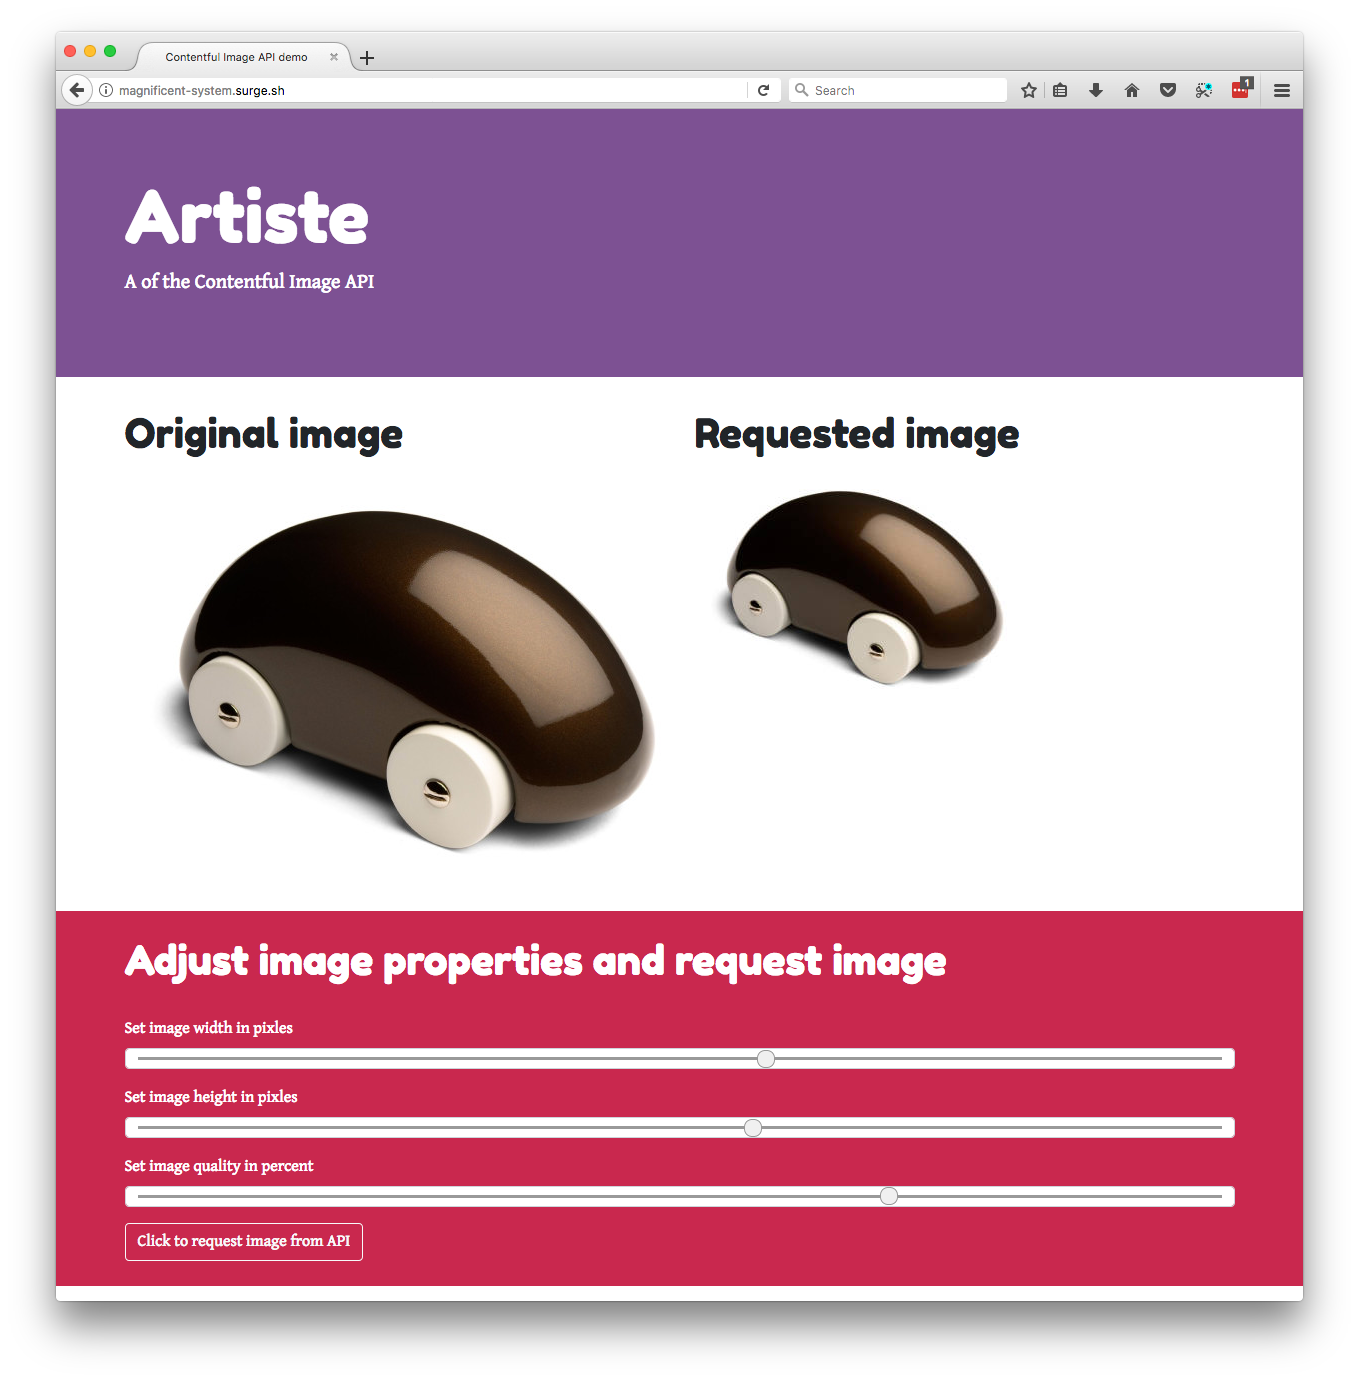
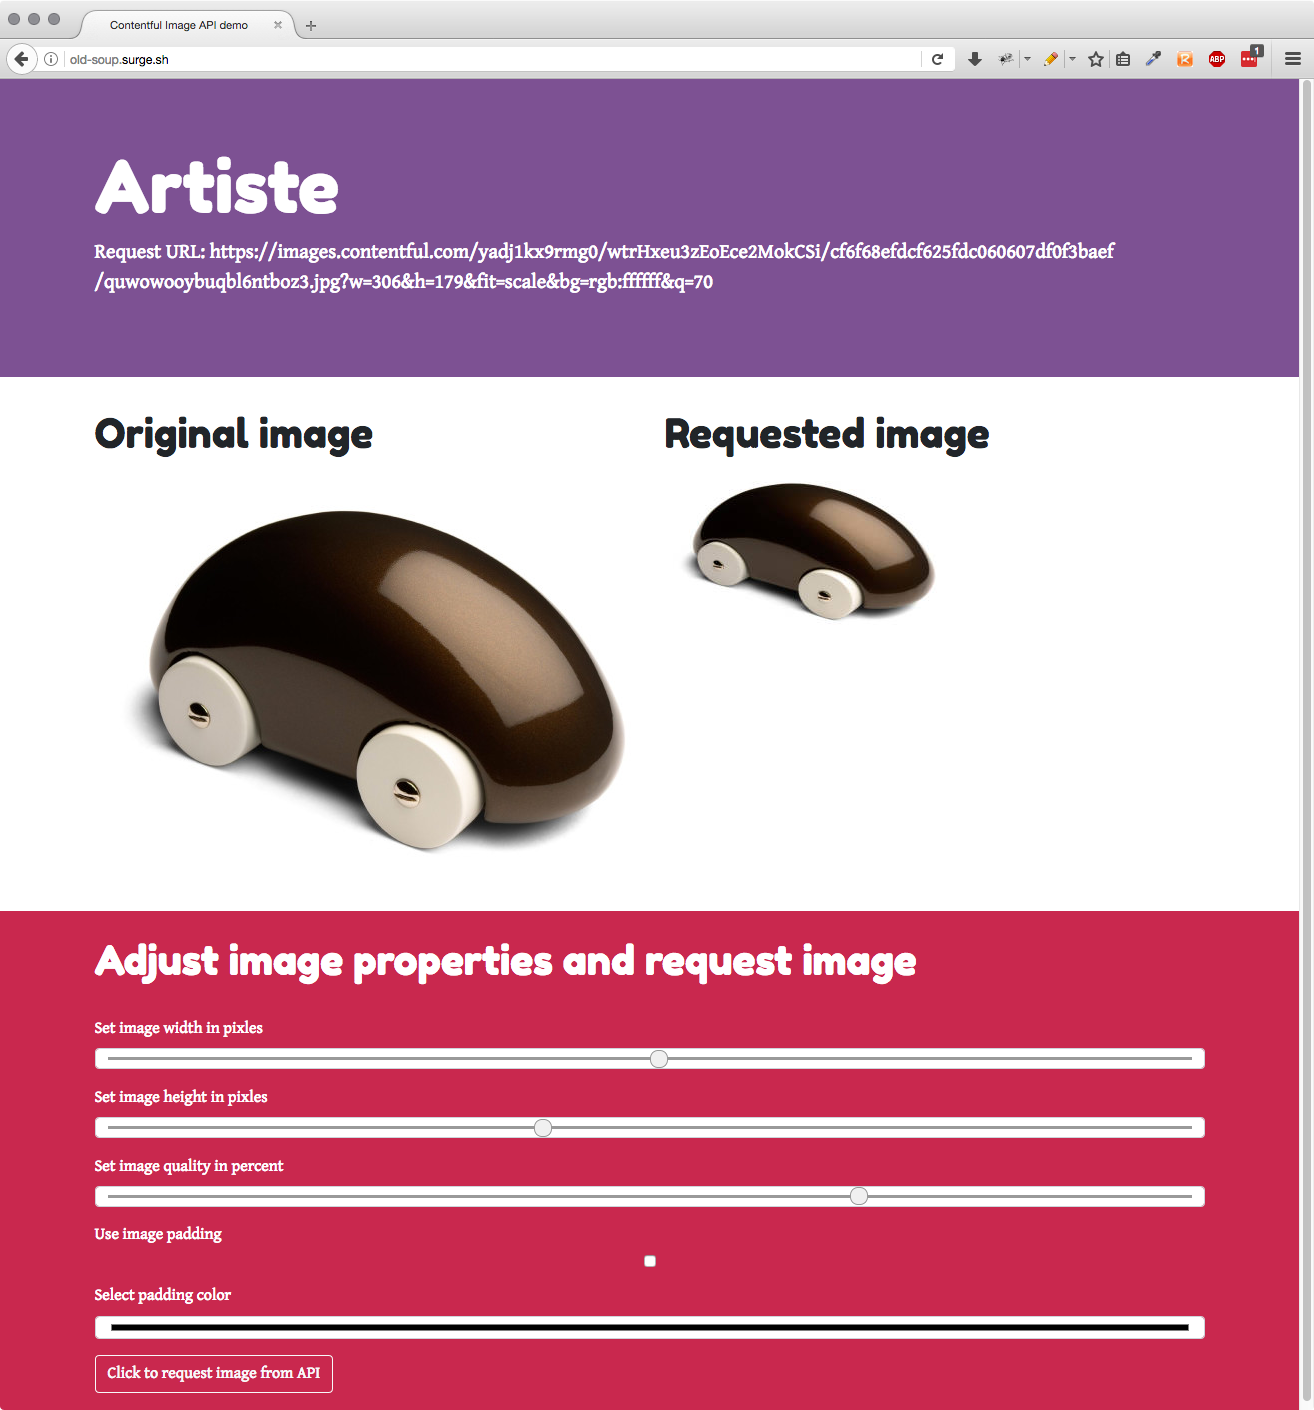
Added screenshot and updated README.md

diff --git a/script.js b/script.js
@@ -19,7 +19,7 @@ $( document ).ready(function() {
     var requestURL = "https://images.contentful.com/yadj1kx9rmg0/wtrHxeu3zEoEce2MokCSi/cf6f68efdcf625fdc060607df0f3baef/quwowooybuqbl6ntboz3.jpg?w="+width+"&h="+height+"&fit="+ fit +"&bg=rgb:"+paddingColorValue+"&q=" + imageQuality +"";
 
     $(".requestedImage").html(" <img src=" + requestURL + "> ");
-    $("#jumbotronStatus").text("Request URL" + requestURL)
+    $("#jumbotronStatus").text("Request URL: " + requestURL)
 
   });
 

diff --git a/README.md b/README.md
@@ -1,7 +1,7 @@
 # ARTISTE
 Artiste is a small demo implementation of the [Contentful image API](https://www.contentful.com/developers/docs/references/images-api/).
 
-A live demo is available at [http://magnificent-system.surge.sh/](http://magnificent-system.surge.sh/)
+A live demo is available at [http://old-soup.surge.sh/](http://old-soup.surge.sh/)
 
 ## HOW DOES IT WORK
 The Contentful image API lets you manipulate images on the fly using API calls
